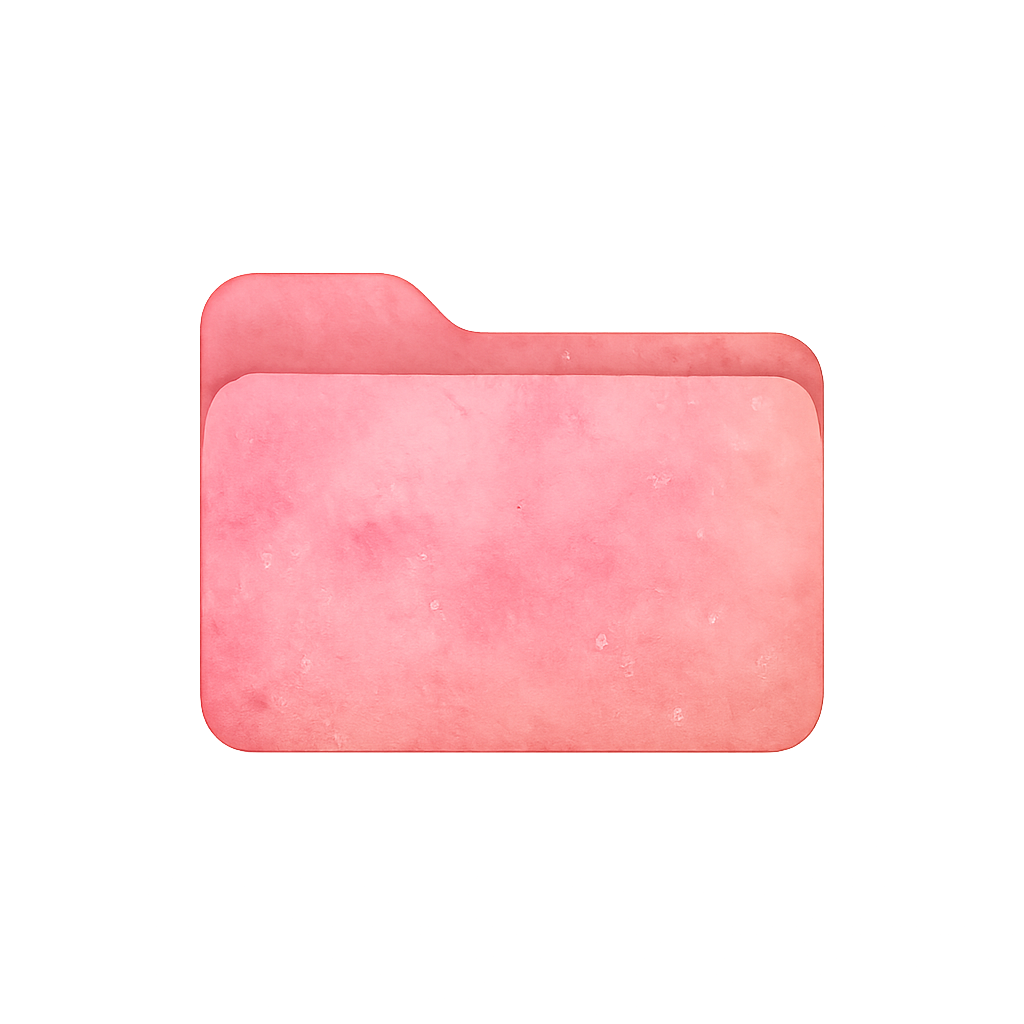
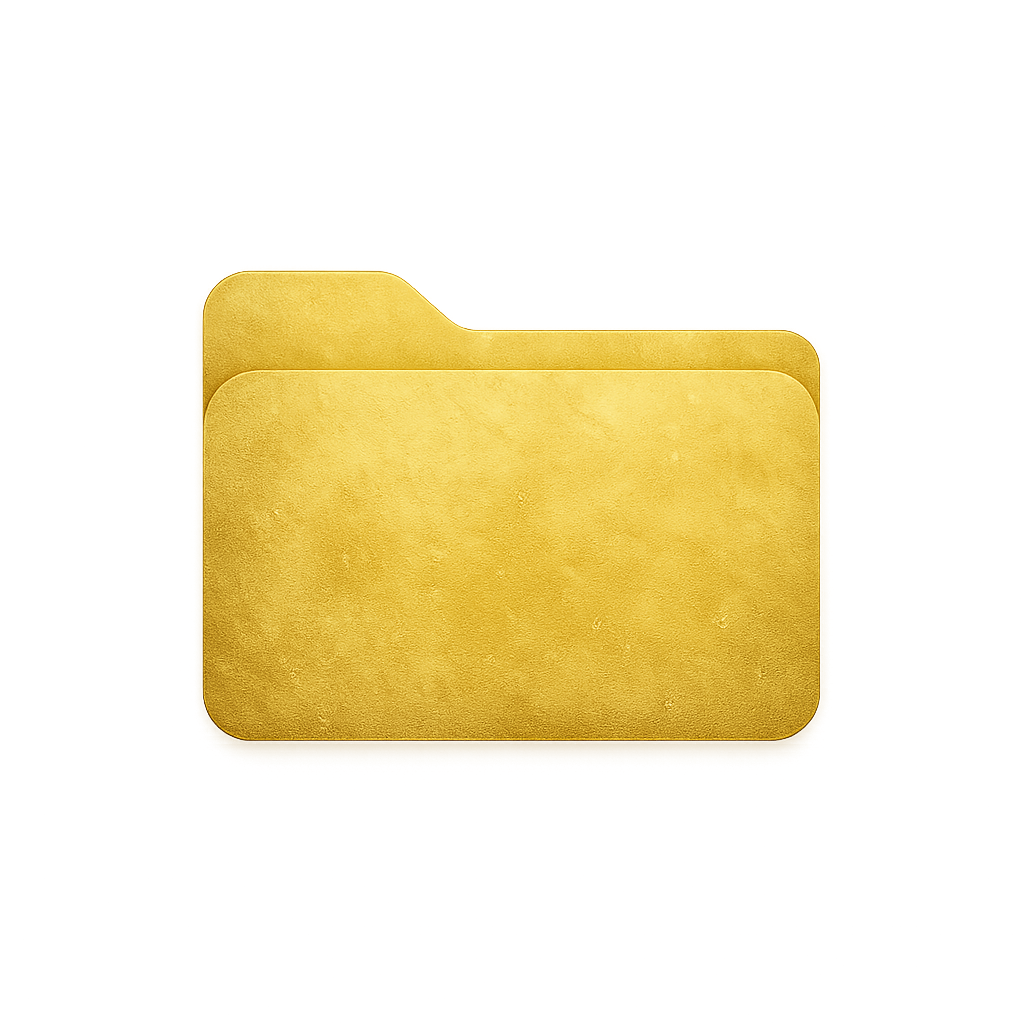
modificacion de galeria.html y style.css

Changed region(s): [[0.1875, 0.25, 0.8125, 0.75]]

diff --git a/static/css/styles.css b/static/css/styles.css
@@ -12,14 +12,11 @@ html, body {
     background: url('../img/portada.jpg') center/cover no-repeat fixed;
 }
 
-/* ======= HEADER ELEGANTE ======= */
+/* ======= HEADER CON FONDO PORTADA ======= */
 header {
     width: 100%;
     height: 140px;
-    background: linear-gradient(180deg, #000000, #d4af37);
-    background-size: cover;
-    background-position: center;
-    background-repeat: no-repeat;
+    background: url('../img/portada.jpg') center/cover no-repeat fixed;
     box-shadow: 0 4px 12px rgba(0, 0, 0, 0.2);
     display: flex;
     flex-direction: column;
@@ -35,9 +32,9 @@ header h1 {
     font-weight: 400;
     background: linear-gradient(90deg, #d4af37, #fff5d7, #d4af37);
     background-size: 200% auto;
+    background-clip: text;
     -webkit-background-clip: text;
     -webkit-text-fill-color: transparent;
-      background-clip: text;
     animation: brillo 4s ease-in-out infinite;
     text-shadow: 2px 2px 6px rgba(0,0,0,0.6);
     margin: 0;
@@ -49,7 +46,7 @@ header p {
     font-size: 1.2rem;
     background: linear-gradient(90deg, #d4af37, #fff5d7, #d4af37);
     background-size: 200% auto;
-      background-clip: text;
+    background-clip: text;
     -webkit-background-clip: text;
     -webkit-text-fill-color: transparent;
     animation: brillo 4s ease-in-out infinite;
@@ -199,7 +196,133 @@ header p {
     100% { transform: translateY(100vh) rotate(360deg); opacity: 0; }
 }
 
-/* ======= RESPONSIVE CELULAR ======= */
+/* ======= GIF CON BORDE DORADO ANIMADO ======= */
+.gif-decorativo img {
+    border: 3px solid #d4af37;
+    border-radius: 20px;
+    padding: 5px;
+    box-shadow: 0 0 10px rgba(212,175,55,0.6);
+    animation: borde-brillo 3s linear infinite;
+}
+
+@keyframes borde-brillo {
+    0% { box-shadow: 0 0 10px rgba(212,175,55,0.6); }
+    50% { box-shadow: 0 0 20px rgba(212,175,55,1); }
+    100% { box-shadow: 0 0 10px rgba(212,175,55,0.6); }
+}
+
+/* ======= GALERÍA ======= */
+.galeria-fondo {
+    background-image: url('../img/portada.jpg');
+    background-size: cover;
+    background-repeat: no-repeat;
+    background-position: center;
+    background-attachment: fixed;
+    min-height: 100vh;
+    padding: 100px 20px 40px;
+}
+
+.galeria-superior {
+    position: sticky;
+    top: 70px; /* justo bajo el header */
+    z-index: 10;
+    background: rgba(0,0,0,0.5);
+    padding: 10px;
+    border-radius: 15px;
+    backdrop-filter: blur(4px);
+}
+
+.galeria-botones {
+    display: flex;
+    flex-wrap: wrap;
+    justify-content: center;
+    gap: 15px;
+    margin-bottom: 30px;
+}
+
+.boton-galeria {
+    background: linear-gradient(145deg, rgba(212,175,55,1), rgba(168, 132, 12, 1));
+    color: white;
+    padding: 10px 18px;
+    border: none;
+    border-radius: 30px;
+    font-weight: bold;
+    text-decoration: none;
+    font-size: 14px;
+    box-shadow: 0 4px 10px rgba(0, 0, 0, 0.2);
+    transition: all 0.3s ease;
+}
+.boton-galeria:hover {
+    transform: scale(1.05);
+    background: rgba(212,175,55,1);
+}
+
+.album-carpeta {
+    display: inline-block;
+    margin: 30px;
+    text-align: center;
+    transition: transform 0.2s ease-in-out;
+}
+.album-carpeta:hover {
+    transform: scale(1.05);
+}
+
+.icono-carpeta {
+    width: 150px;
+    height: auto;
+    border-radius: 16px;
+    box-shadow: 0 4px 8px rgba(223, 187, 30, 0.3);
+    transition: box-shadow 0.3s ease-in-out;
+}
+.icono-carpeta:hover {
+    box-shadow: 0 8px 16px rgba(219, 200, 88, 0.6);
+}
+
+.nombre-carpeta {
+    display: block;
+    margin-top: 10px;
+    font-family: 'Great Vibes', cursive;
+    font-size: 1.5rem;
+    color: rgba(212,175,55,1);
+    text-shadow: 0 0 3px #fff, 0 0 6px rgba(235, 184, 16, 1);
+    text-decoration: none;
+}
+
+.album-carpeta a {
+    text-decoration: none !important;
+}
+
+/* Responsive para galería */
+@media (max-width: 768px) {
+    .album-carpeta {
+        margin: 15px;
+    }
+
+    .icono-carpeta {
+        width: 100px;
+    }
+
+    .nombre-carpeta {
+        font-size: 1.2rem;
+    }
+
+    .galeria-botones {
+        flex-direction: column;
+        align-items: center;
+    }
+
+    .boton-galeria {
+        width: 90%;
+        font-size: 15px;
+        padding: 12px;
+    }
+
+    p {
+        padding: 0 15px;
+    }
+}
+
+/* ======= RESPONSIVE GENERAL ======= */
 @media screen and (max-width: 600px) {
     header {
         height: 110px;

diff --git a/templates/galeria.html b/templates/galeria.html
@@ -4,15 +4,18 @@
 
 {% block content %}
 <main class="galeria-fondo">
-    <div class="galeria-contenido">
-        {% if session.get('logueado') %}
-        <div class="galeria-botones">
-            <a href="{{ url_for('crear_album') }}" class="boton-galeria"><i class="fas fa-plus"></i> Crear Carpeta</a>
-            <a href="{{ url_for('upload') }}" class="boton-galeria"><i class="fas fa-upload"></i> Subir Fotos</a>
-            <a href="{{ url_for('eliminar_fotos') }}" class="boton-galeria"><i class="fas fa-trash-alt"></i> Eliminar Fotos o Carpetas</a>
-        </div>
-        {% endif %}
 
+    {% if session.get('logueado') %}
+    <!-- Botones superiores -->
+    <div class="galeria-botones galeria-superior">
+        <a href="{{ url_for('crear_album') }}" class="boton-galeria"><i class="fas fa-plus"></i> Crear Carpeta</a>
+        <a href="{{ url_for('upload') }}" class="boton-galeria"><i class="fas fa-upload"></i> Subir Fotos</a>
+        <a href="{{ url_for('eliminar_fotos') }}" class="boton-galeria"><i class="fas fa-trash-alt"></i> Eliminar Fotos o Carpetas</a>
+    </div>
+    {% endif %}
+
+    <!-- Contenido de la galería -->
+    <div class="galeria-contenido">
         {% if galeria %}
             {% for carpeta in galeria.keys() %}
             <div class="album-carpeta">
@@ -30,16 +33,53 @@
 
 <style>
 .galeria-fondo {
-    background-image: url('{{ url_for('static', filename='img/fondo_galeria.jpg') }}');
+    background-image: url('{{ url_for('static', filename='img/portada.jpg') }}');
     background-size: cover;
     background-repeat: no-repeat;
     background-position: center;
     background-attachment: fixed;
     min-height: 100vh;
-    padding: 60px 20px 40px;
+    padding: 100px 20px 40px;
 }
 
-/* Estilo para carpetas */
+/* Botones superiores fijos */
+.galeria-superior {
+    position: sticky;
+    top: 70px; /* justo bajo el header */
+    z-index: 10;
+    background: rgba(0,0,0,0.5);
+    padding: 10px;
+    border-radius: 15px;
+    backdrop-filter: blur(4px);
+}
+
+/* Contenedor de botones */
+.galeria-botones {
+    display: flex;
+    flex-wrap: wrap;
+    justify-content: center;
+    gap: 15px;
+    margin-bottom: 30px;
+}
+
+.boton-galeria {
+    background: linear-gradient(145deg, rgba(212,175,55,1), rgba(168, 132, 12, 1));
+    color: white;
+    padding: 10px 18px;
+    border: none;
+    border-radius: 30px;
+    font-weight: bold;
+    text-decoration: none;
+    font-size: 14px;
+    box-shadow: 0 4px 10px rgba(0, 0, 0, 0.2);
+    transition: all 0.3s ease;
+}
+.boton-galeria:hover {
+    transform: scale(1.05);
+    background: rgba(212,175,55,1);
+}
+
+/* Carpetas */
 .album-carpeta {
     display: inline-block;
     margin: 30px;
@@ -54,11 +94,11 @@
     width: 150px;
     height: auto;
     border-radius: 16px;
-    box-shadow: 0 4px 8px rgba(255, 192, 203, 0.3);
+    box-shadow: 0 4px 8px rgba(223, 187, 30, 0.3);
     transition: box-shadow 0.3s ease-in-out;
 }
 .icono-carpeta:hover {
-    box-shadow: 0 8px 16px rgba(255, 192, 203, 0.6);
+    box-shadow: 0 8px 16px rgba(219, 200, 88, 0.6);
 }
 
 .nombre-carpeta {
@@ -66,40 +106,13 @@
     margin-top: 10px;
     font-family: 'Great Vibes', cursive;
     font-size: 1.5rem;
-    color: #ffaad4;
-    text-shadow: 0 0 3px #fff, 0 0 6px #fba3d0;
+    color: rgba(212,175,55,1);
+    text-shadow: 0 0 3px #fff, 0 0 6px rgba(235, 184, 16, 1);
     text-decoration: none;
 }
 
 .album-carpeta a {
     text-decoration: none !important;
-}
-
-/* Botones de acciones */
-.galeria-botones {
-    display: flex;
-    flex-wrap: wrap;
-    justify-content: center;
-    gap: 15px;
-    margin-top: 20px;
-    margin-bottom: 30px;
-}
-
-.boton-galeria {
-    background: linear-gradient(145deg, #ffb6c1, #f08080);
-    color: white;
-    padding: 10px 18px;
-    border: none;
-    border-radius: 30px;
-    font-weight: bold;
-    text-decoration: none;
-    font-size: 14px;
-    box-shadow: 0 4px 10px rgba(0, 0, 0, 0.2);
-    transition: all 0.3s ease;
-}
-.boton-galeria:hover {
-    transform: scale(1.05);
-    background: #ff7f9c;
 }
 
 /* Responsive */
